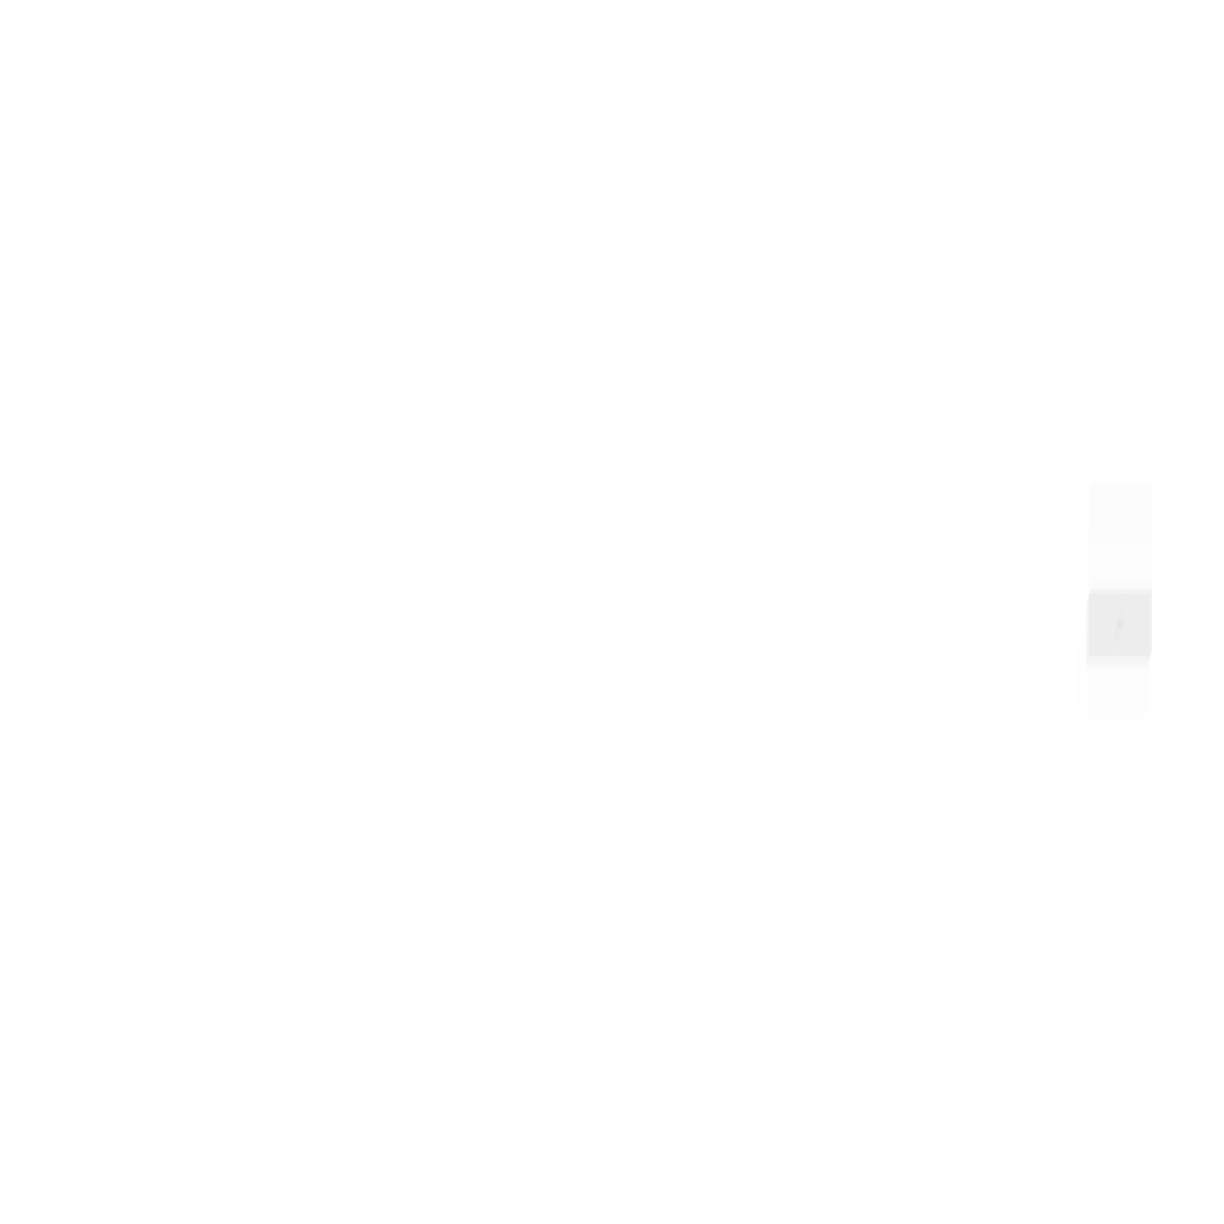
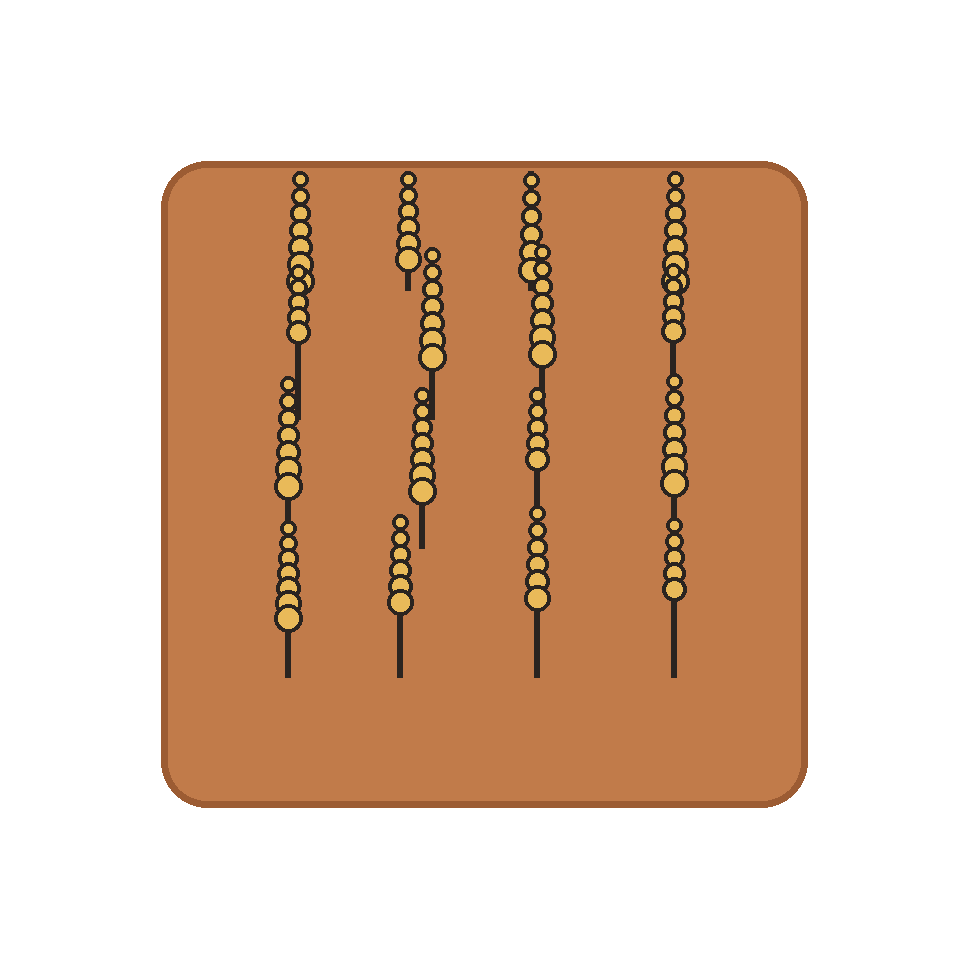
feat(wheat): replace SDXL wheat with procedural cozy tile (3–4 upright rows), outside-only sticker stroke; remove internal artifacts

diff --git a/tools/art_post/stroke_and_bleed.py b/tools/art_post/stroke_and_bleed.py
@@ -12,13 +12,15 @@ from pathlib import Path
 from typing import Iterable, Tuple
 
 from PIL import Image, ImageChops, ImageFilter
+from PIL import ImageDraw, ImageOps
 
 # Default stroke configuration (cozy dark brown, semi-opaque)
 STROKE_RGB: Tuple[int, int, int] = (42, 36, 32)
 STROKE_ALPHA: int = 180
 STROKE_PX: int = 3
 BLEED_RADIUS: int = 2
-OPEN_PX: int = 1  # mask cleanup (morphological open) to remove tiny specks
+OPEN_PX: int = 1   # remove tiny specks
+CLOSE_PX: int = 0  # fill tiny holes within the alpha
 
 
 def _ensure_rgba(image: Image.Image) -> Image.Image:
@@ -58,13 +60,57 @@ def _open_mask(alpha: Image.Image, px: int) -> Image.Image:
     return opened
 
 
+def _close_mask(alpha: Image.Image, px: int) -> Image.Image:
+    """Morphological close (dilate then erode) to fill small holes inside shapes."""
+    if px <= 0:
+        return alpha
+    k = max(3, px * 2 + 1)
+    dilated = alpha.filter(ImageFilter.MaxFilter(k))
+    closed = dilated.filter(ImageFilter.MinFilter(k))
+    return closed
+
+
+def _fill_holes_connected(alpha: Image.Image) -> Image.Image:
+    """Fill interior holes by flood-filling background from the edges and inverting.
+
+    This is robust against complex silhouettes where simple morphological closing
+    would either leave larger gaps or overgrow thin details.
+    """
+    if alpha.mode != "L":
+        a = alpha.convert("L")
+    else:
+        a = alpha.copy()
+
+    # Binary view of alpha
+    bin_a = a.point(lambda v: 255 if v > 0 else 0, "L")
+    # Invert: background and holes are white, foreground black
+    inv = ImageOps.invert(bin_a)
+    # Work in RGB for floodfill API
+    work = inv.convert("RGB")
+    w, h = work.size
+    # Flood-fill from the 4 corners to mark the true background
+    for seed in [(0, 0), (w - 1, 0), (0, h - 1), (w - 1, h - 1)]:
+        ImageDraw.floodfill(work, seed, value=(0, 0, 0), thresh=2)
+    # Remaining white regions are enclosed holes
+    holes = work.convert("L").point(lambda v: 255 if v > 128 else 0, "L")
+    # Fill holes in the original alpha
+    filled = a.copy()
+    filled.paste(255, mask=holes)
+    return filled
+
+
 def outer_stroke(
     image: Image.Image,
     px: int = STROKE_PX,
     rgb: Tuple[int, int, int] = STROKE_RGB,
     alpha: int = STROKE_ALPHA,
 ) -> Image.Image:
-    """Grow alpha outward and paint it with a semi-opaque stroke color."""
+    """Grow alpha outward and paint it with a semi-opaque stroke color.
+
+    This version creates an OUTSIDE-ONLY stroke by eroding the base alpha
+    before subtracting from the expanded alpha. This prevents rings drawn
+    inside tiny intrusions/holes of the mask.
+    """
     if px <= 0 or alpha <= 0:
         return _ensure_rgba(image)
 
@@ -76,7 +122,9 @@ def outer_stroke(
 
     kernel = max(3, px * 2 + 1)
     expanded = base_alpha.filter(ImageFilter.MaxFilter(kernel))
-    stroke_mask = ImageChops.subtract(expanded, base_alpha)
+    # Erode inward so interior bumps don't produce an interior stroke
+    eroded = base_alpha.filter(ImageFilter.MinFilter(kernel))
+    stroke_mask = ImageChops.subtract(expanded, eroded)
     if stroke_mask.getbbox() is None:
         return rgba
 
@@ -92,14 +140,19 @@ def apply_stroke_and_bleed(
     stroke_rgb: Tuple[int, int, int] = STROKE_RGB,
     stroke_alpha: int = STROKE_ALPHA,
     clean_open_px: int = OPEN_PX,
+    clean_close_px: int = CLOSE_PX,
 ) -> Image.Image:
-    """Run mask cleanup, matte bleed, then outer stroke to minimize edge artifacts."""
+    """Run hole-fill (close), speckle-clean (open), matte bleed, then outer stroke."""
     img = _ensure_rgba(image)
-    # Clean the alpha mask to remove tiny floaters before we expand/outline it
     alpha = img.getchannel("A")
-    cleaned = _open_mask(alpha, px=clean_open_px)
+    # Fill small holes first so the stroke won't appear inside shapes
+    # First fill topological holes using flood-fill; then small morphological cleanups
+    alpha = _fill_holes_connected(alpha)
+    alpha = _close_mask(alpha, px=clean_close_px)
+    # Remove tiny floating pixels
+    alpha = _open_mask(alpha, px=clean_open_px)
     img2 = img.copy()
-    img2.putalpha(cleaned)
+    img2.putalpha(alpha)
     with_bleed = alpha_bleed(img2, blur_radius=bleed_radius)
     return outer_stroke(with_bleed, px=stroke_px, rgb=stroke_rgb, alpha=stroke_alpha)
 

diff --git a/scripts/procedural_wheat.py b/scripts/procedural_wheat.py
@@ -1,0 +1,111 @@
+import argparse
+import random
+from pathlib import Path
+import sys
+
+from PIL import Image, ImageDraw
+
+ROOT = Path(__file__).resolve().parents[1]
+if str(ROOT) not in sys.path:
+    sys.path.append(str(ROOT))
+
+from pad_square import pad_square
+from tools.art_post.stroke_and_bleed import apply_stroke_and_bleed
+from seed_from_id import seed_from_id
+
+
+PALETTE = {
+    "outline": (42, 36, 32, 255),
+    "gold": (233, 186, 89, 255),
+    "amber": (212, 152, 60, 255),
+    "soil": (193, 123, 74, 255),
+    "soil_dark": (156, 92, 51, 255),
+}
+
+
+def draw_wheat_tile(size: int = 768, seed: int = 0) -> Image.Image:
+    rnd = random.Random(seed)
+    img = Image.new("RGBA", (size, size), (0, 0, 0, 0))
+    draw = ImageDraw.Draw(img)
+
+    # Ground tile (rounded rectangle)
+    margin = int(size * 0.08)
+    x0, y0, x1, y1 = margin, margin, size - margin, size - margin
+    r = int(size * 0.06)
+    # Draw soil fill
+    draw.rounded_rectangle([x0, y0, x1, y1], radius=r, fill=PALETTE["soil"])
+    # Soil border
+    draw.rounded_rectangle([x0, y0, x1, y1], radius=r, outline=PALETTE["soil_dark"], width=int(size * 0.01))
+
+    # Wheat rows (3–4 rows of clusters)
+    rows = 4
+    col_per_row = 4
+    row_gap = (y1 - y0) / (rows + 1)
+
+    stem_w = max(3, size // 120)
+    head_w = max(3, size // 90)
+    for r_i in range(rows):
+        y_base = int(y0 + (r_i + 1) * row_gap)
+        for c_i in range(col_per_row):
+            # Jittered x position inside the tile
+            x_span = (x1 - x0) / (col_per_row + 1)
+            x_c = int(x0 + (c_i + 1) * x_span + rnd.uniform(-x_span * 0.15, x_span * 0.15))
+            stem_h = int(size * 0.22 + rnd.uniform(-size * 0.02, size * 0.02))
+            y_top = max(y0 + 10, y_base - stem_h)
+
+            # Stem
+            draw.line([(x_c, y_base), (x_c, y_top)], fill=PALETTE["outline"], width=stem_w)
+
+            # Head (simple stacked ovals)
+            grains = 6 + rnd.randint(-1, 1)
+            g_spacing = max(6, stem_h // 10)
+            gx = x_c
+            gy = y_top + g_spacing // 2
+            for g in range(grains):
+                w = head_w + g
+                h = head_w + g
+                bbox = [gx - w, gy - h, gx + w, gy + h]
+                draw.ellipse(bbox, fill=PALETTE["gold"], outline=PALETTE["outline"], width=max(2, head_w // 2))
+                gy += g_spacing
+
+    return img
+
+
+def build(out_path: Path):
+    out_path.parent.mkdir(parents=True, exist_ok=True)
+    seed = seed_from_id("wheat_field_001")
+    base = draw_wheat_tile(size=768, seed=seed)
+
+    # Pre-pad to leave room for sticker outline
+    tmp_pre = Path("temp/wheat_manual_prepad.png")
+    base.save(tmp_pre)
+    tmp_pre2 = Path("temp/wheat_manual_prepad2.png")
+    pad_square(str(tmp_pre), str(tmp_pre2), padding=36)
+    padded = Image.open(tmp_pre2).convert("RGBA")
+
+    # White outline sticker
+    sticker = apply_stroke_and_bleed(
+        padded,
+        bleed_radius=2,
+        stroke_px=28,
+        stroke_rgb=(255, 255, 255),
+        stroke_alpha=255,
+        clean_open_px=1,
+        clean_close_px=2,
+    )
+
+    # Final pad for UI margin
+    tmp_final = Path("temp/wheat_manual_final.png")
+    sticker.save(tmp_final)
+    pad_square(str(tmp_final), str(out_path), padding=64)
+
+
+def main():
+    ap = argparse.ArgumentParser()
+    ap.add_argument("--out", default="assets/art/cards/wheat_field_001.png")
+    args = ap.parse_args()
+    build(Path(args.out))
+
+
+if __name__ == "__main__":
+    main()

diff --git a/scripts/generate_card.py b/scripts/generate_card.py
@@ -74,8 +74,9 @@ STYLES = {
         # nature bias
         "priority_positive": "terrain tile, vegetation, plants, crops",
         "priority_negative": "machine, device, screen, monitor, robot, metallic, console, gauge, black and white, monochrome, grayscale, sky, clouds, sun, horizon, landscape, frame, border, panel",
-        "cutout": "rembg",
-        "open_px": 2,
+        "cutout": "auto",
+        "open_px": 1,
+        "close_px": 4,
     },
     # Character/animal variant for cards that should be creatures (e.g., cow)
     "cozy_sticker_char_v1": {
@@ -364,6 +365,7 @@ def run_generation(
             stroke_rgb=tuple(style_cfg.get("stroke_rgb", (42, 36, 32))),
             stroke_alpha=int(style_cfg.get("stroke_alpha", 180)),
             clean_open_px=int(style_cfg.get("open_px", 1)),
+            clean_close_px=int(style_cfg.get("close_px", 0)),
         )
 
     # Style-specific sticker outline and matte bleed
